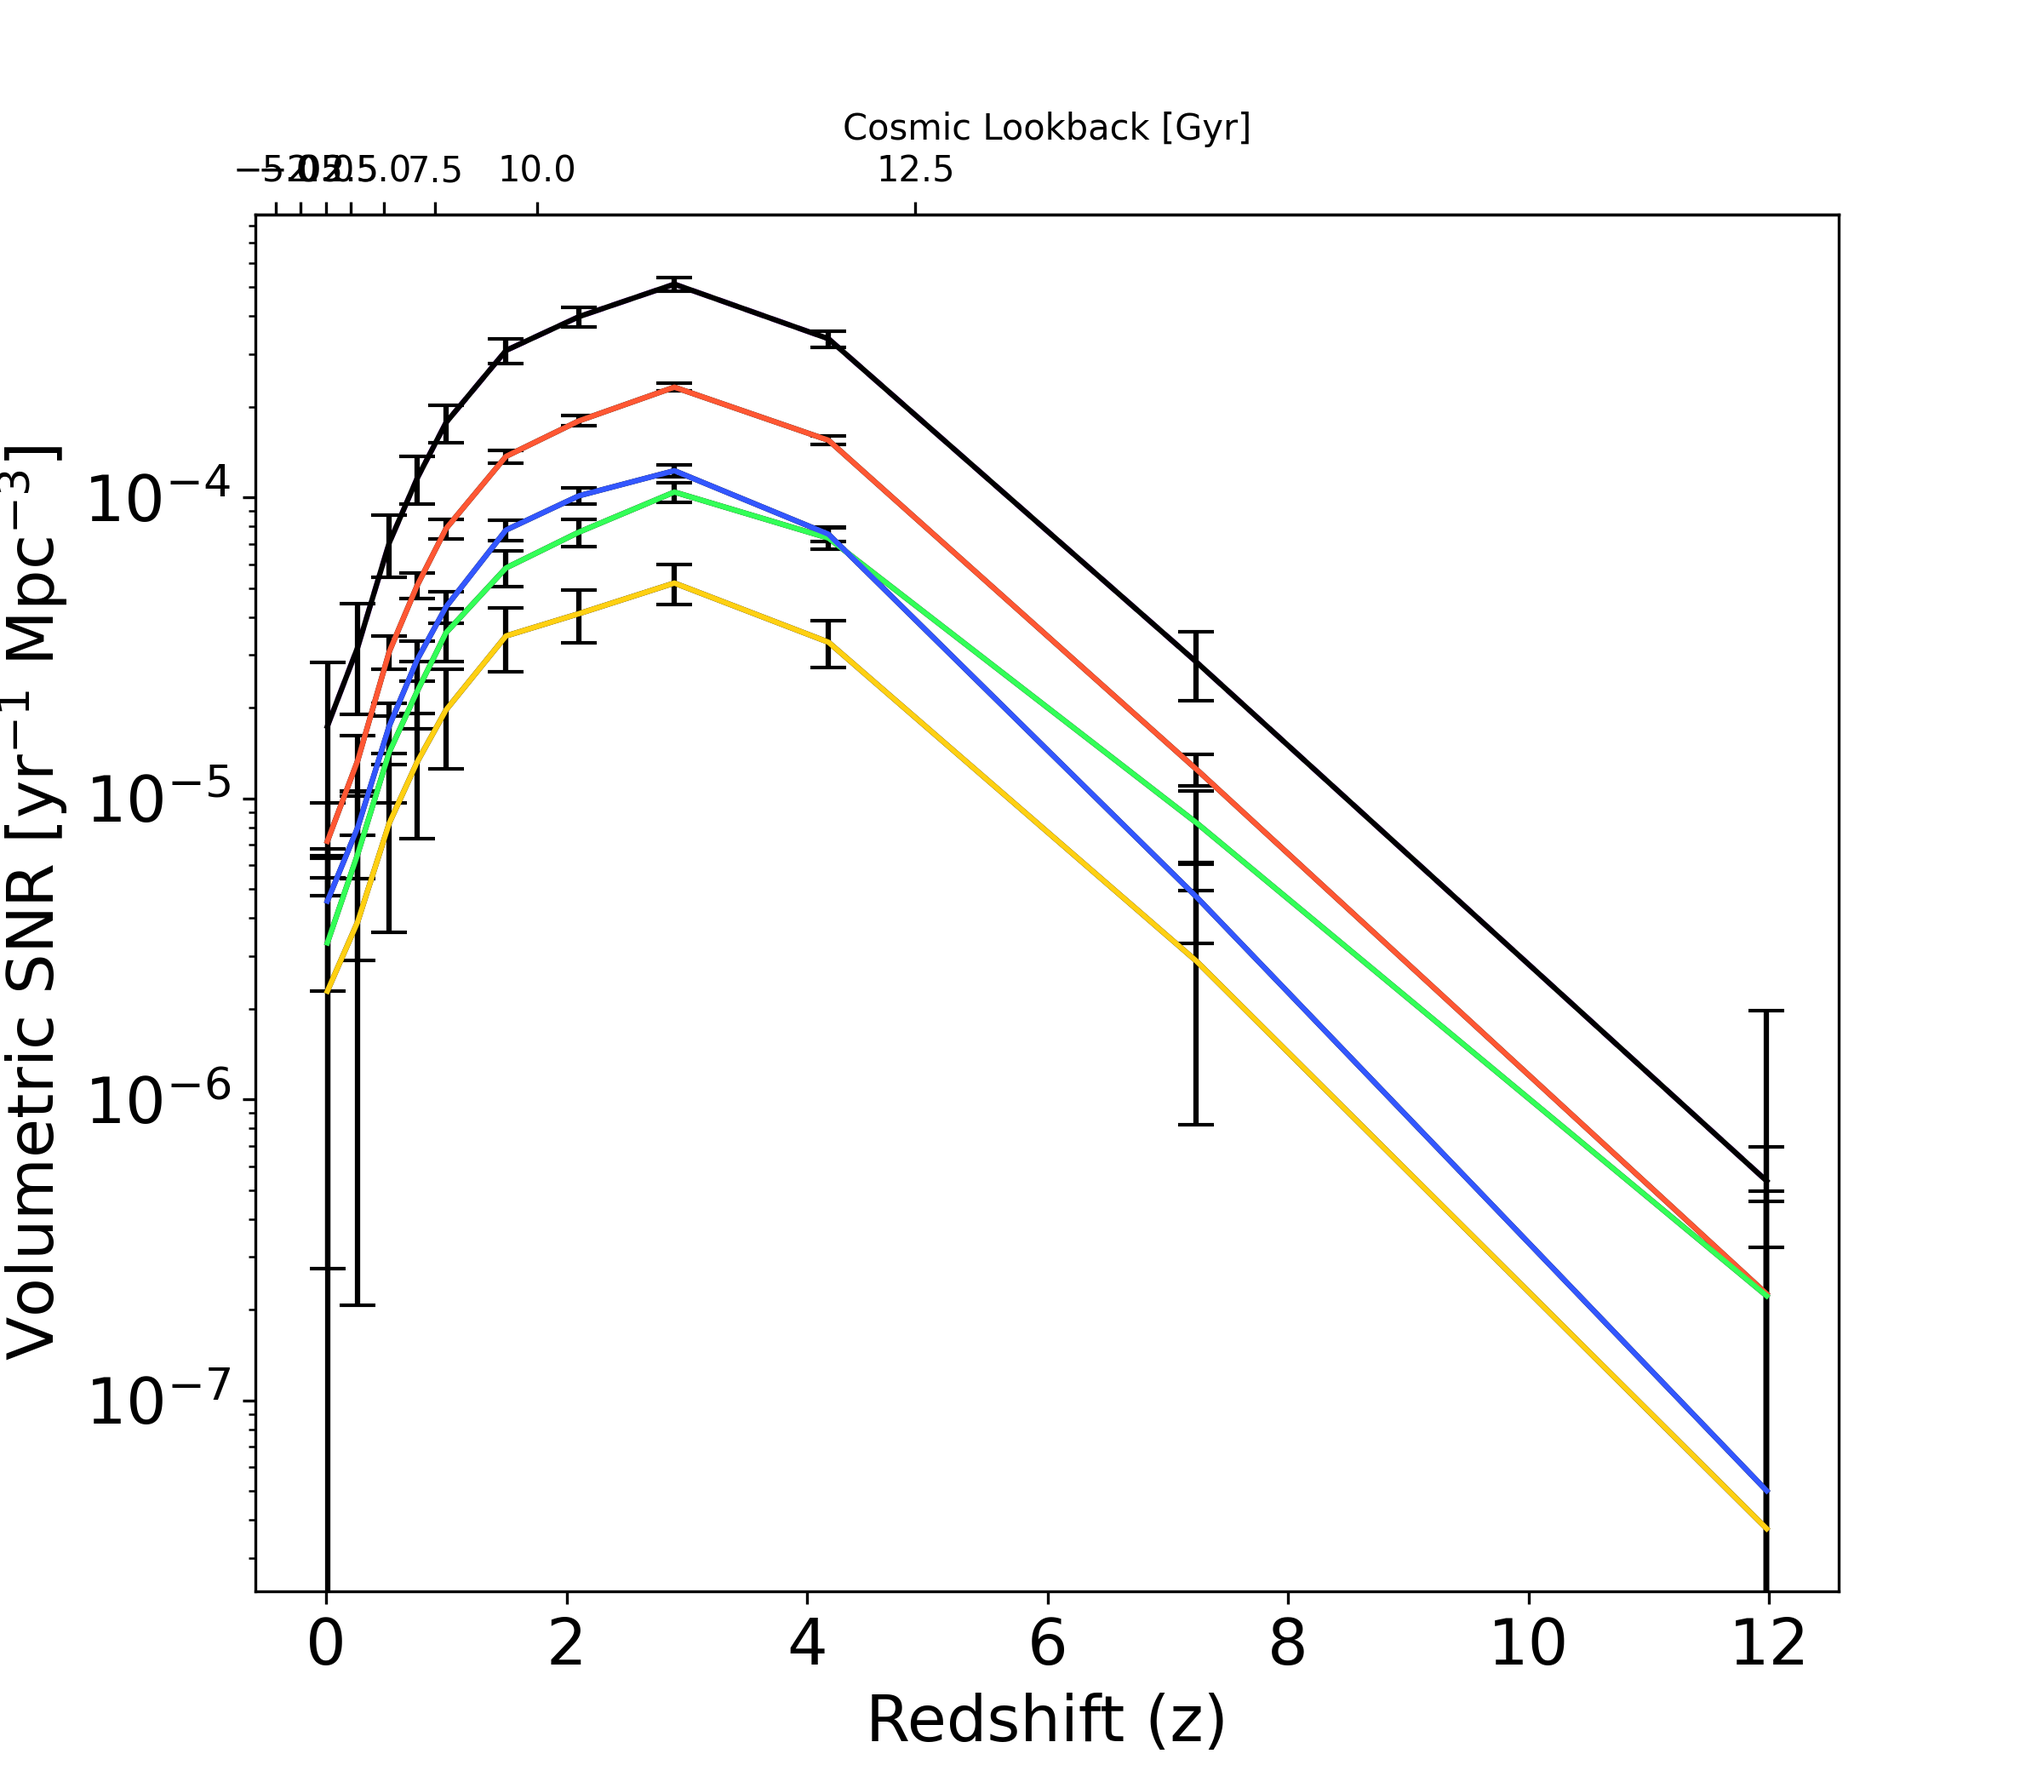
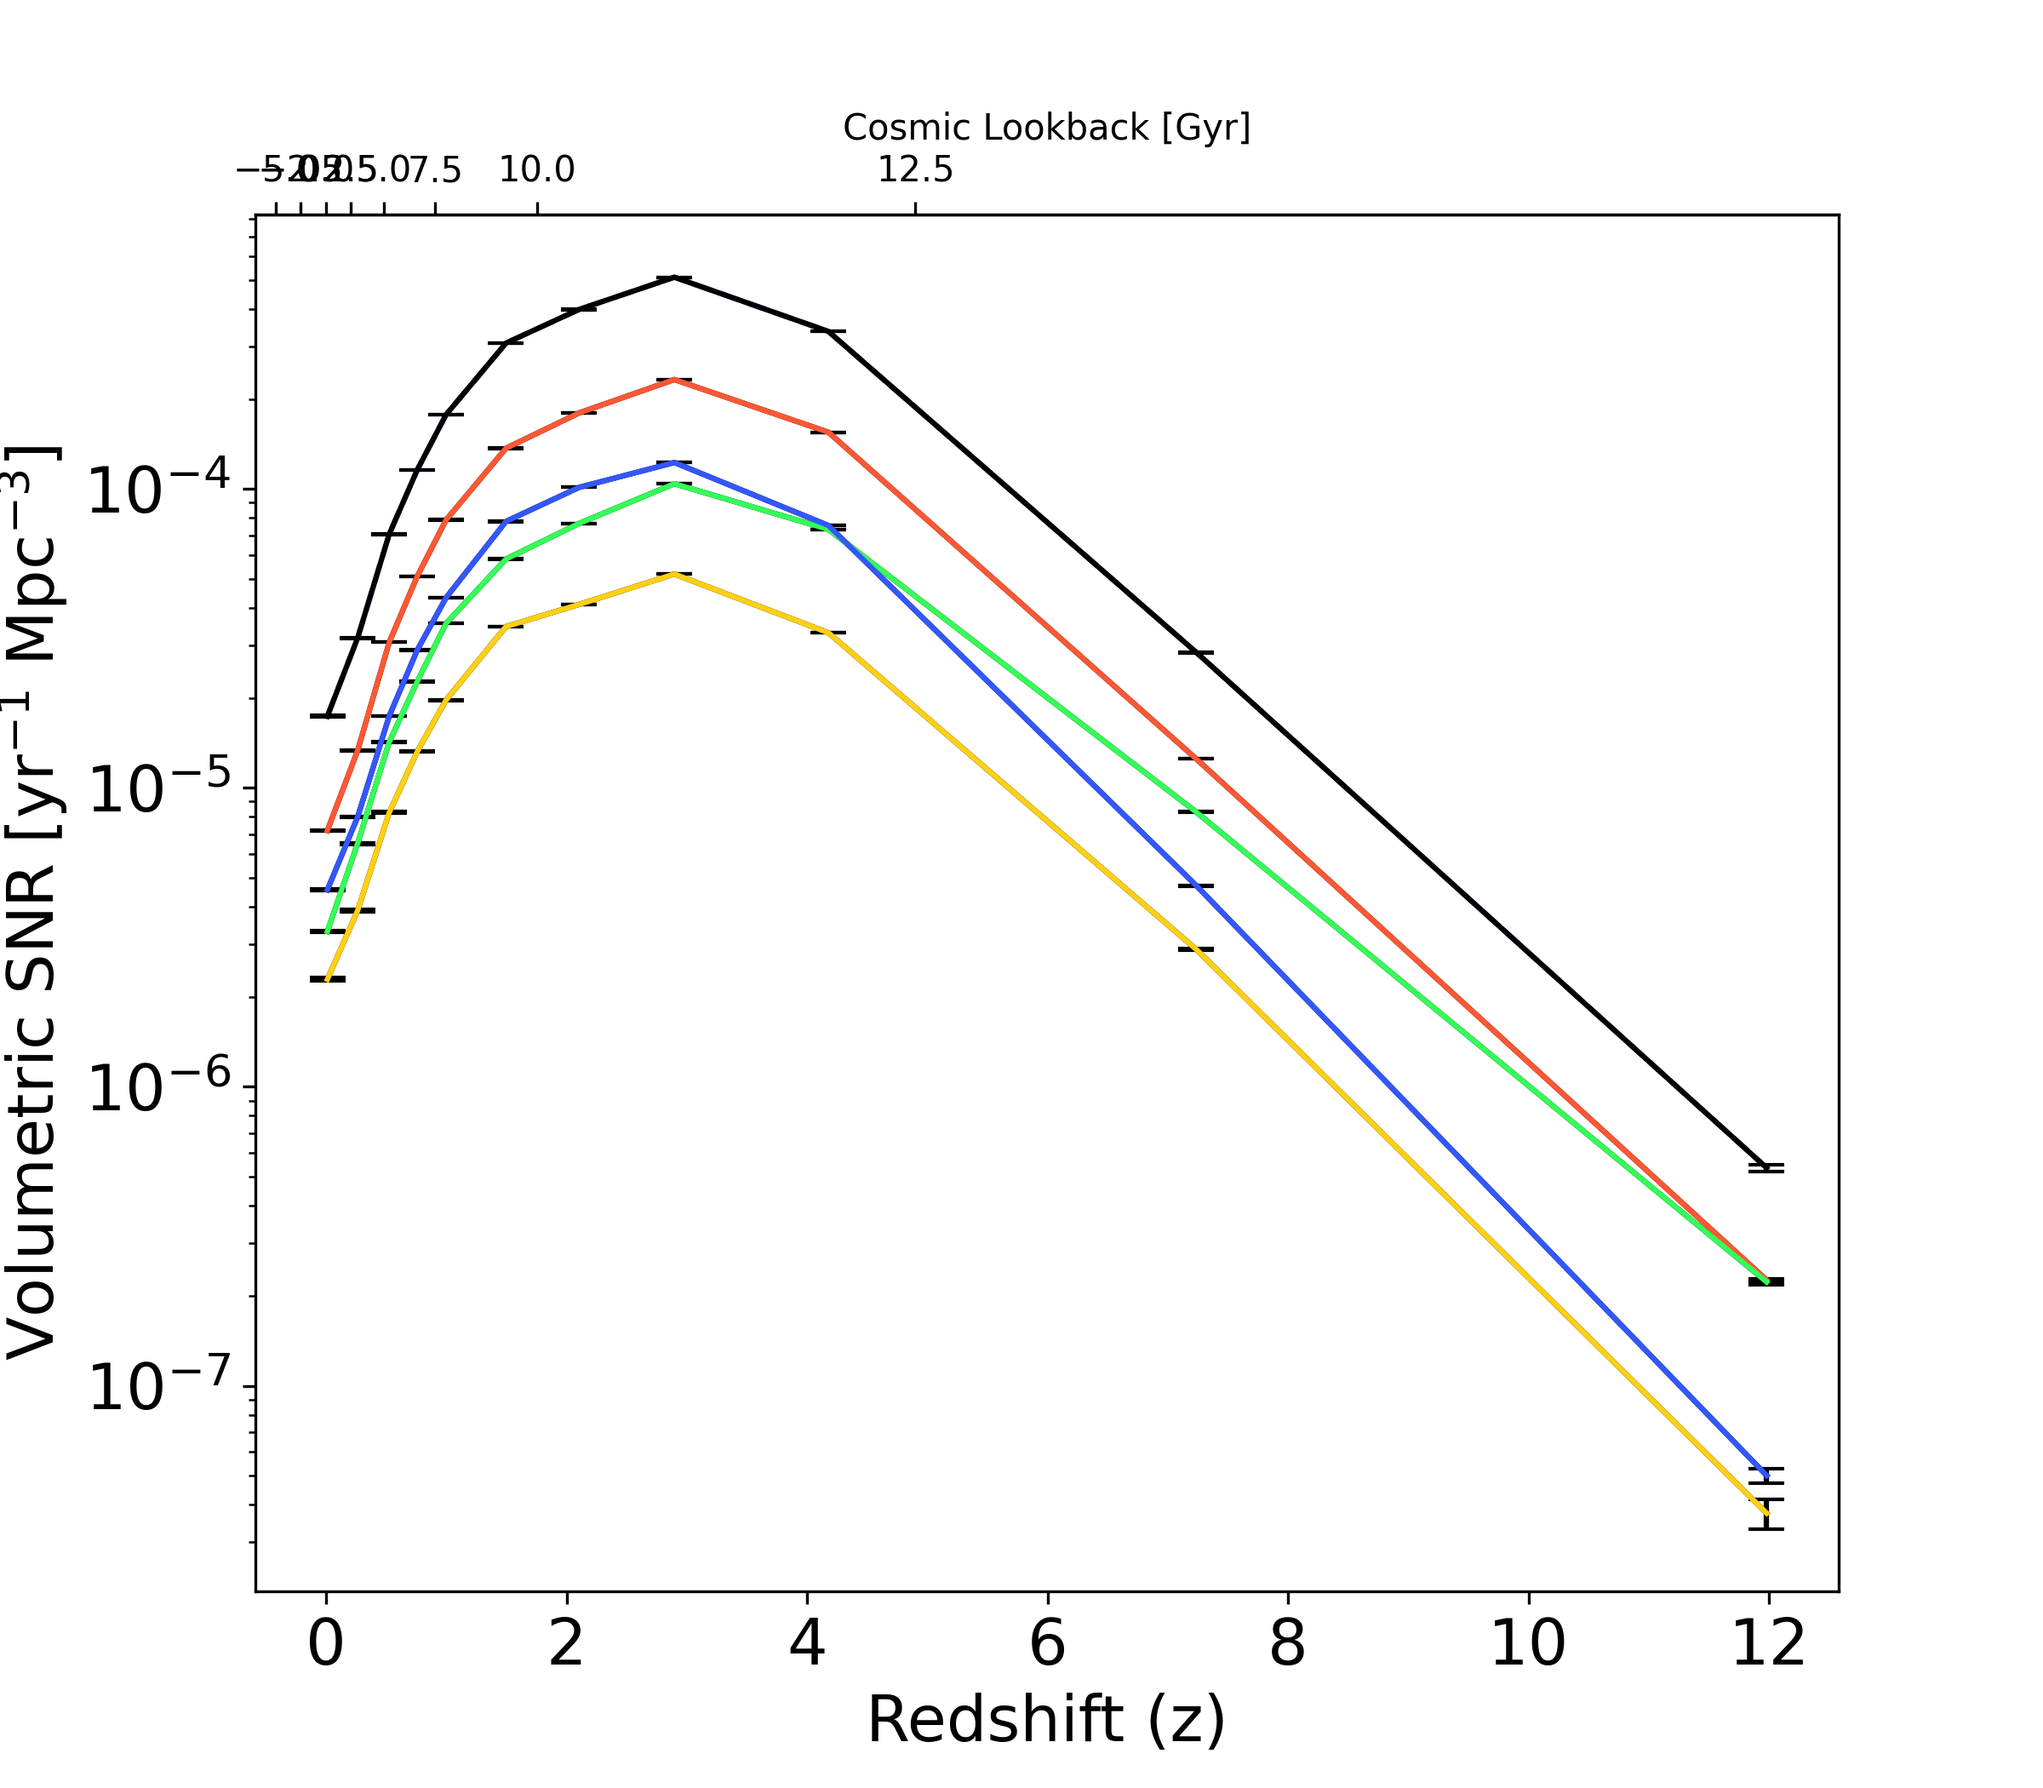
Error Rates Working

diff --git a/tng.py b/tng.py
@@ -780,7 +780,7 @@ ax_total_snr.plot(redshift_linespace, curve_snr, label=f'Current Study (Curve Fi
 
 # scatter
 ax_total_snr.scatter(rev_redshifts, total_snr, label=f'Current Study', color='orange', marker='D', edgecolors='black', zorder=100)
-ax_total_snr.errorbar(rev_redshifts, total_snr, yerr=total_snr_err, color='black',capsize=5)#, marker='D', zorder=90)
+ax_total_snr.errorbar(rev_redshifts, total_snr, yerr=total_snr_err, color='black',capsize=5, fmt='D')#, marker='D', zorder=90)
 #ax_total_snr.scatter(rev_redshifts, sfrh_halos * kcc, label=f'TNG100-1 (All Halos)', color='lime', marker='D', edgecolors='black')
 
 # plot data points
